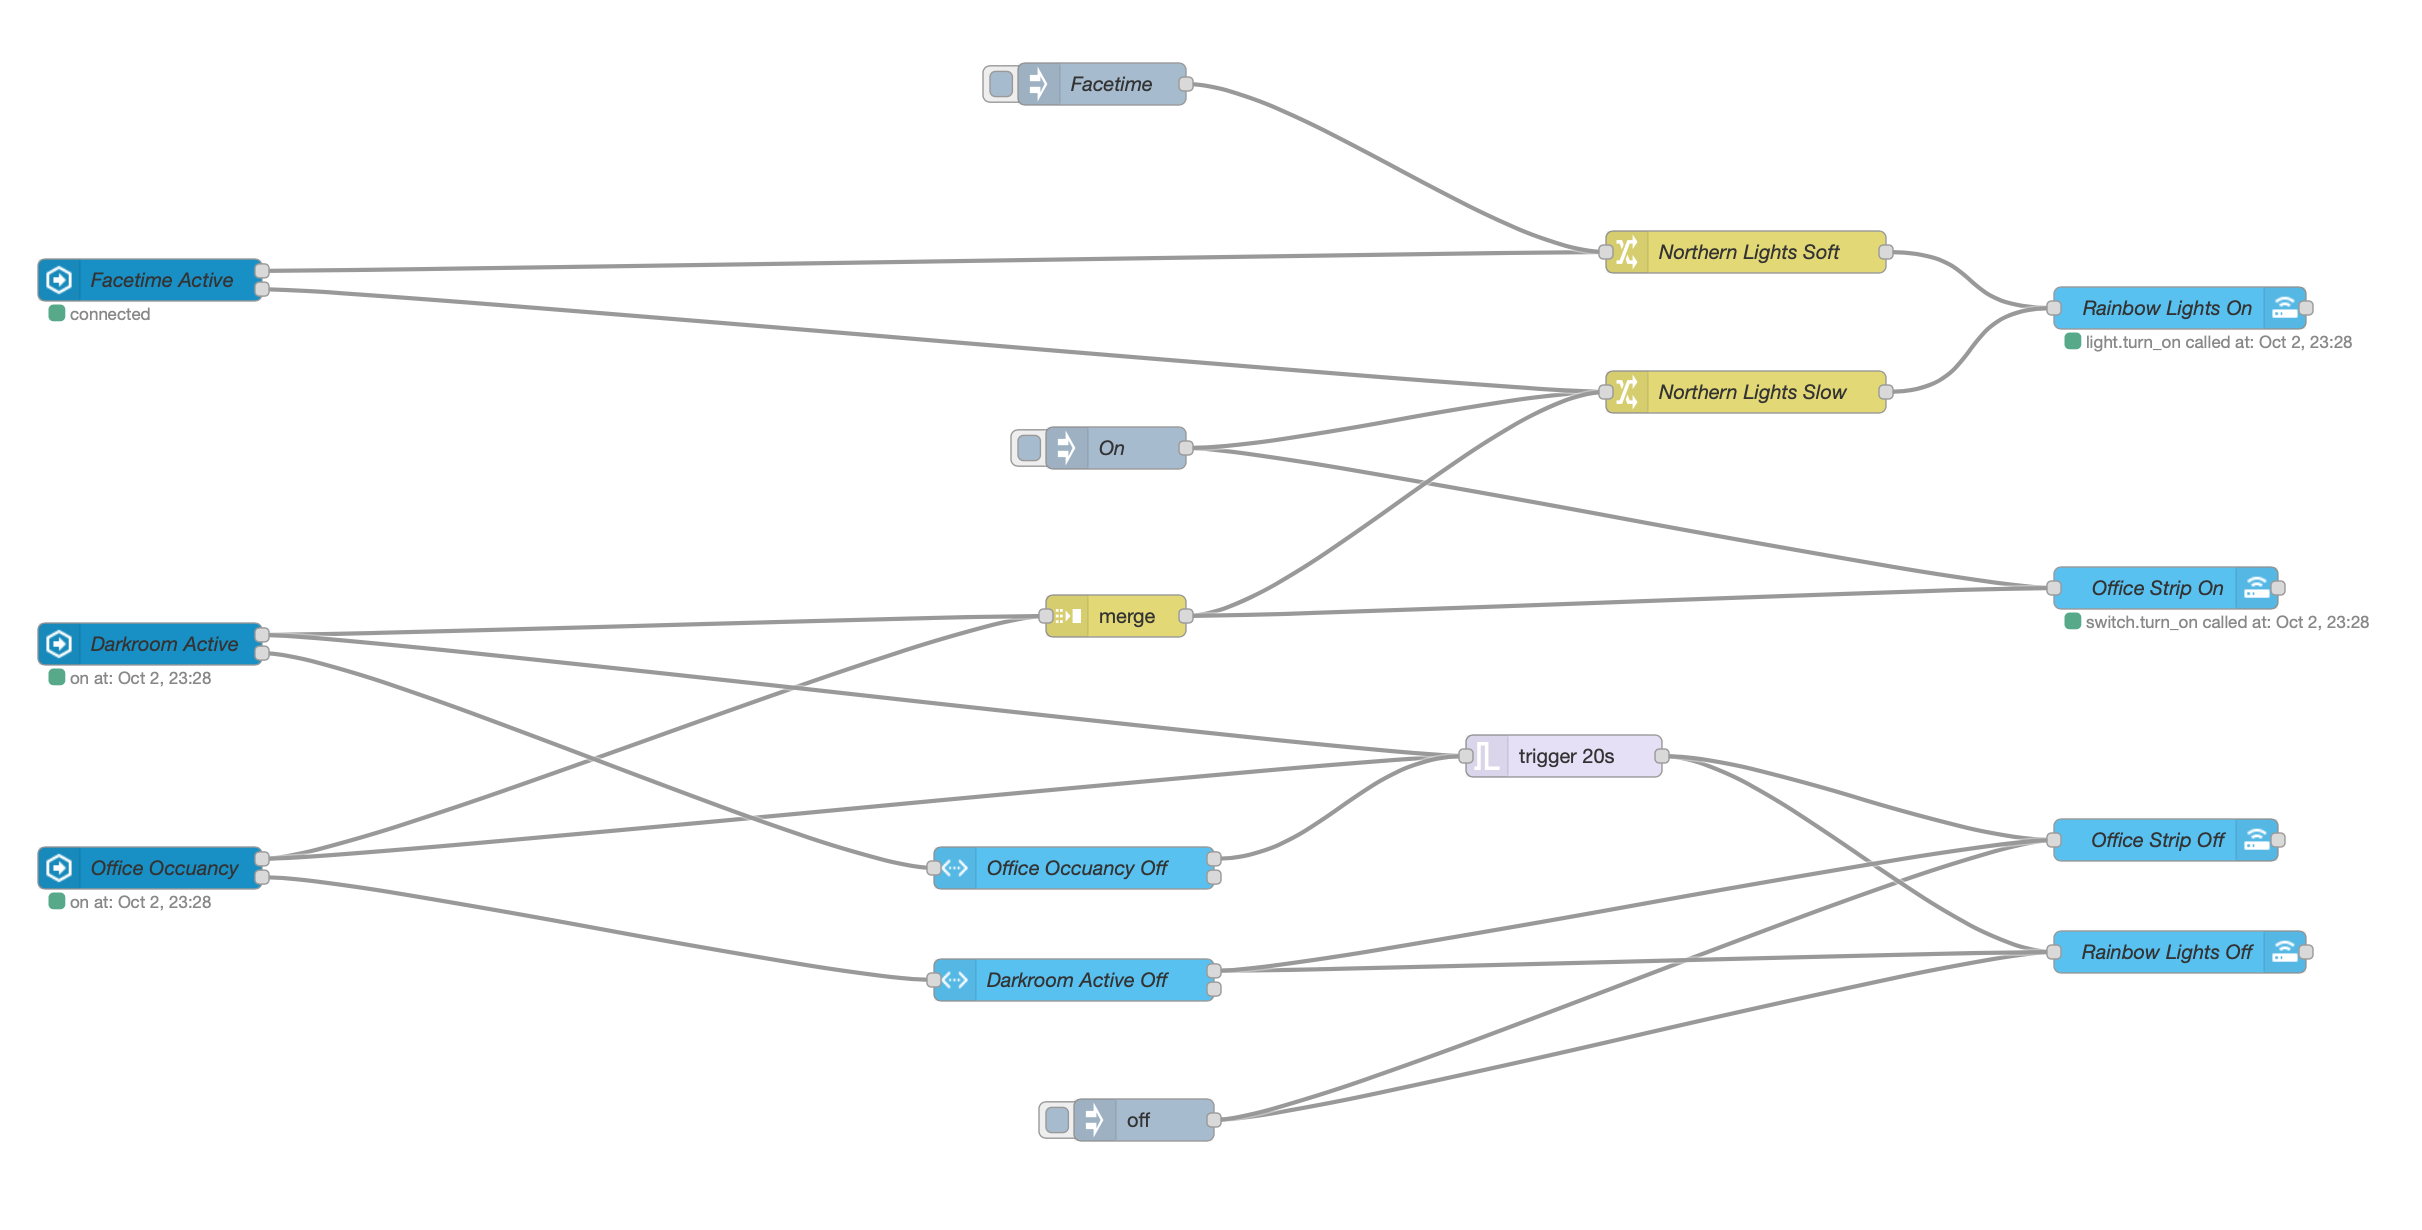
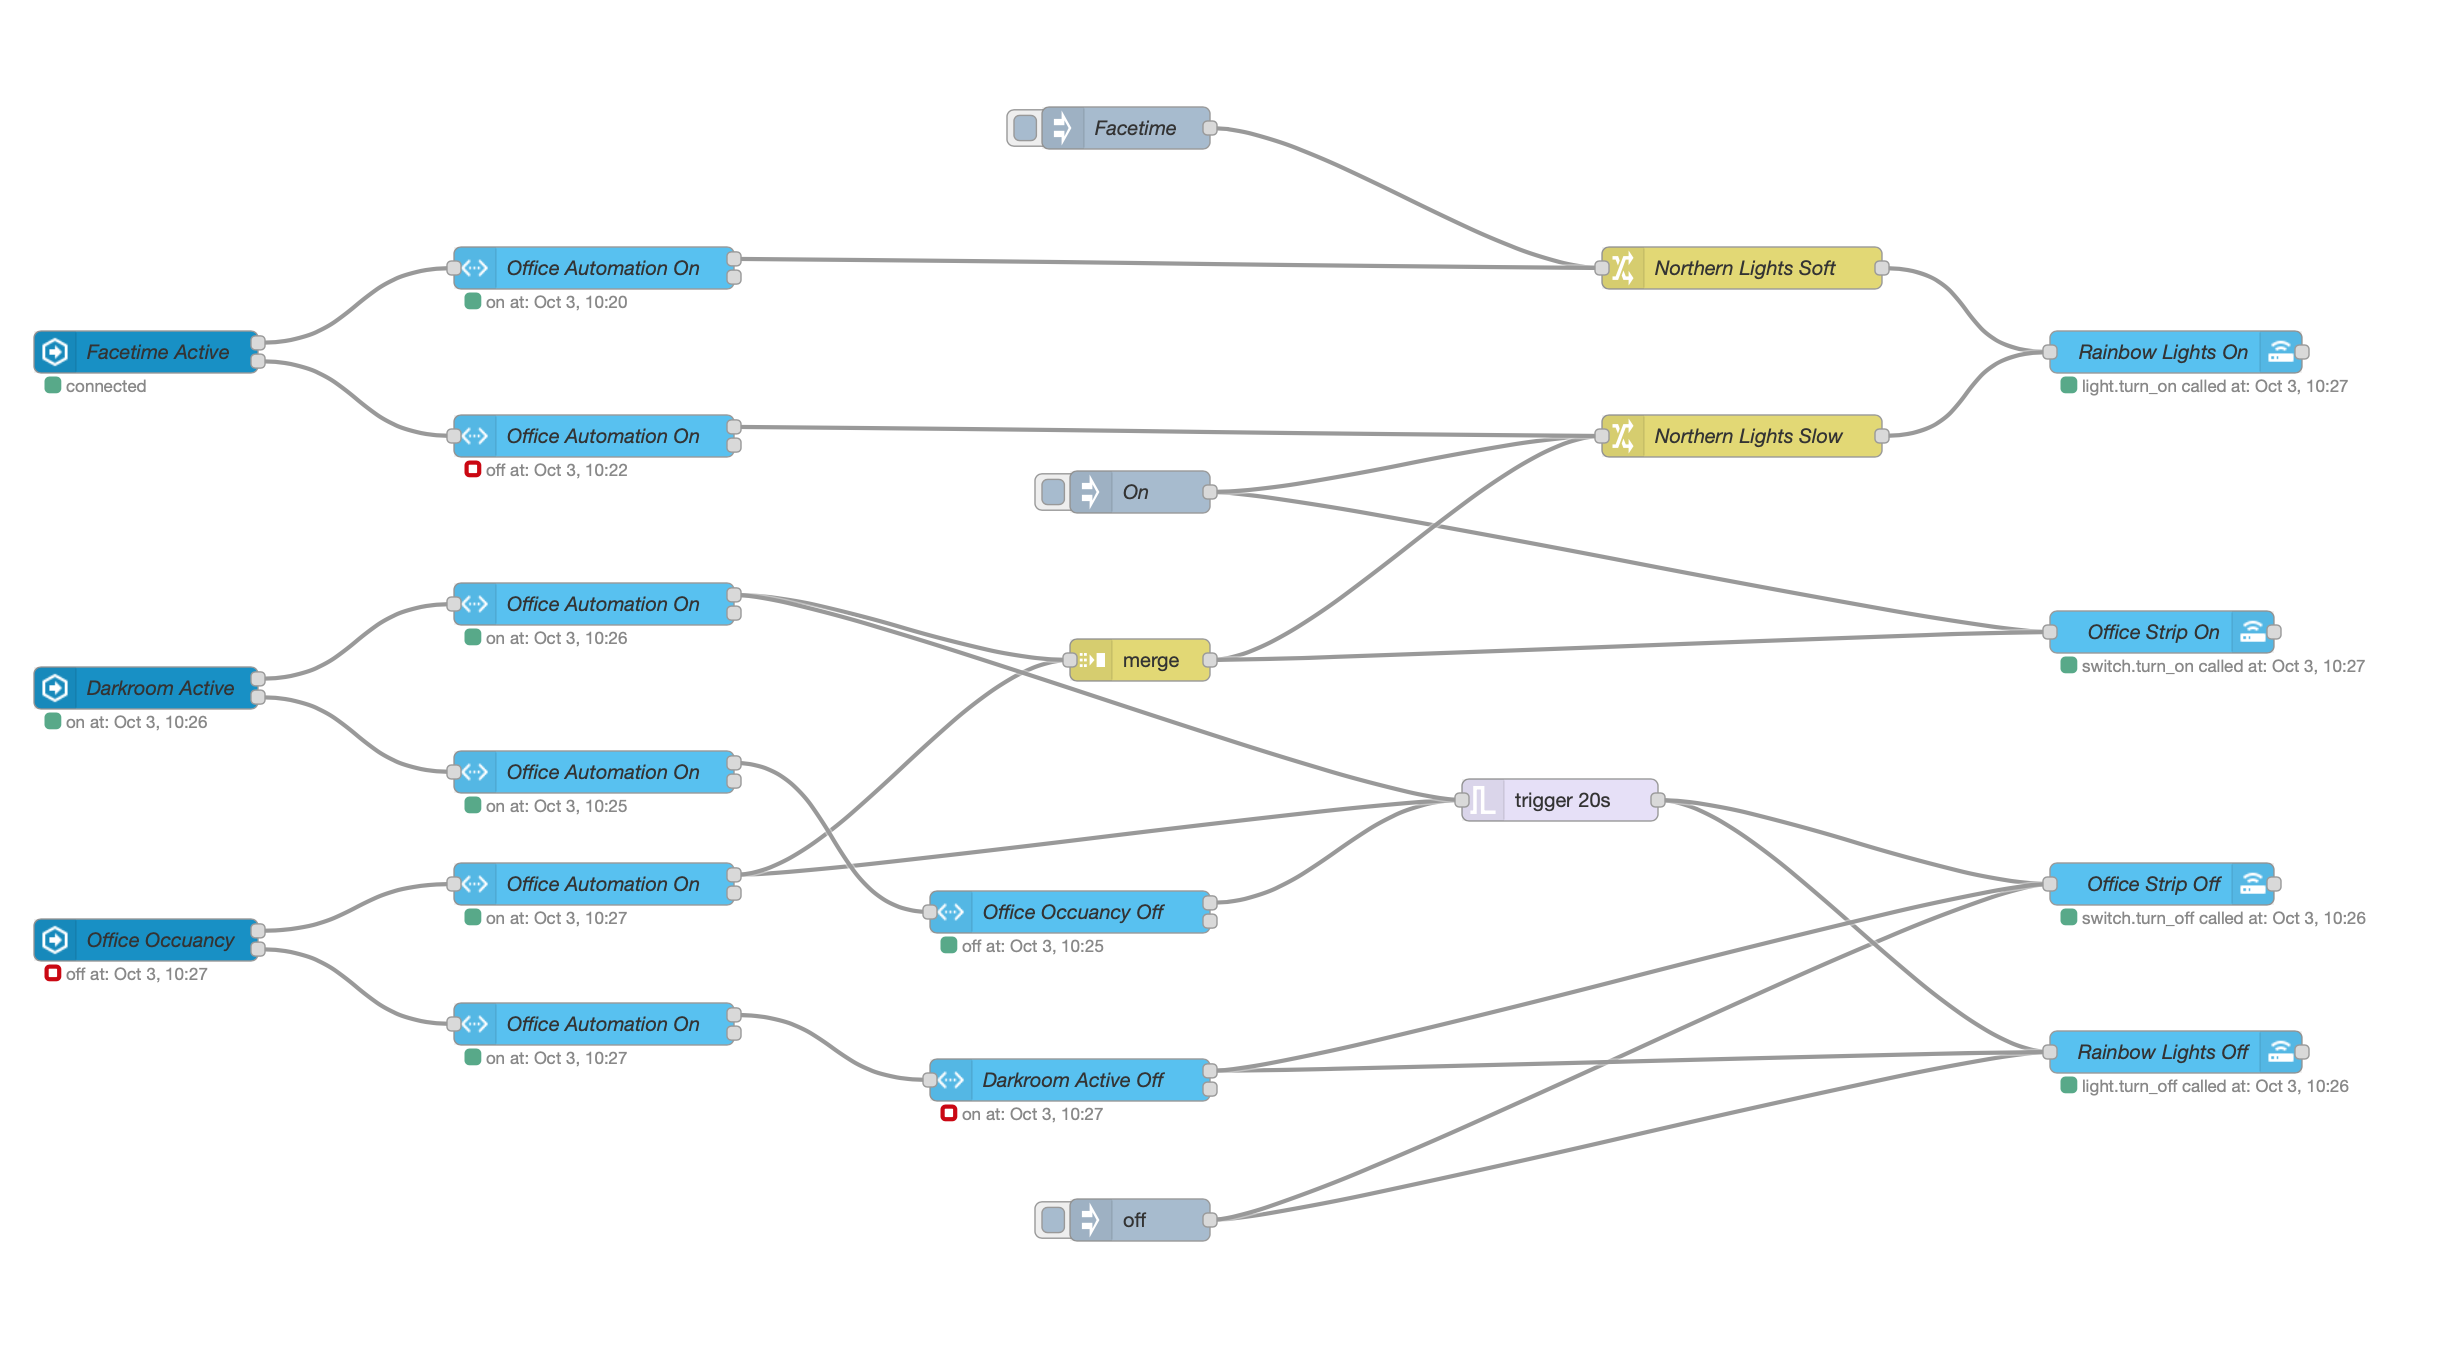
Add toggle for turn off automation
Add an input boolean for turn off office light automation from HA, Homekit and Siri

diff --git a/NodeRed/README.md b/NodeRed/README.md
@@ -15,6 +15,7 @@ In the case of usage of my webcam (Zoom, Skype,..), my Aurora light is less satu
 - [x] Motion sensor On -> Turn on the lights
 - [x] HA Mac App activity sensor On -> Turn on the lights
 - [x] Motion sensor Off and HA Mac App activity sensor Off for 20 seconds -> Turn off the lights
+- [x] Add an input boolean for turn off automation frome HA, Homekit and Siri
 - [ ] Control an On-Air light outside of the office base mic usage on the computer
 
 The code: ![Office Light Json](officeLight.json)
